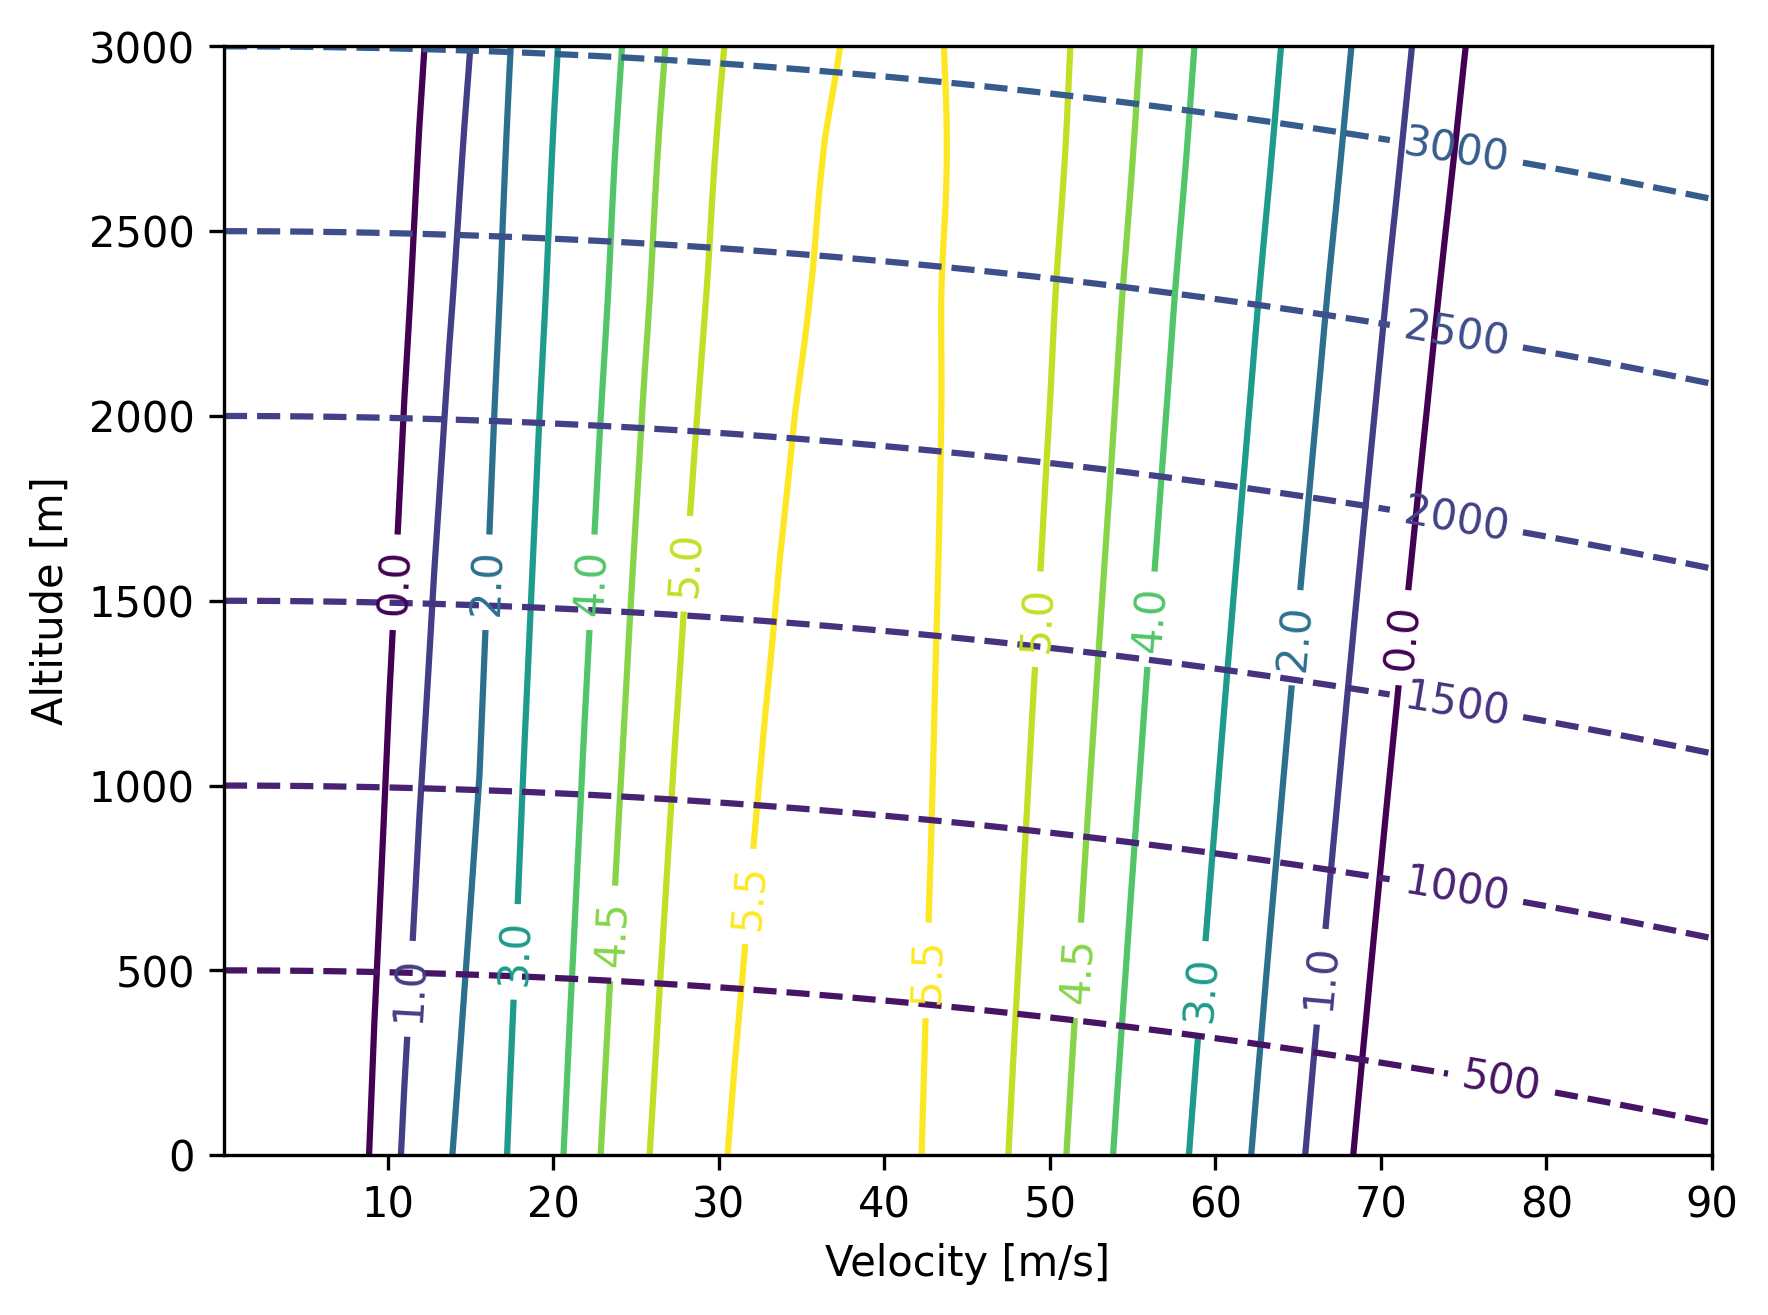
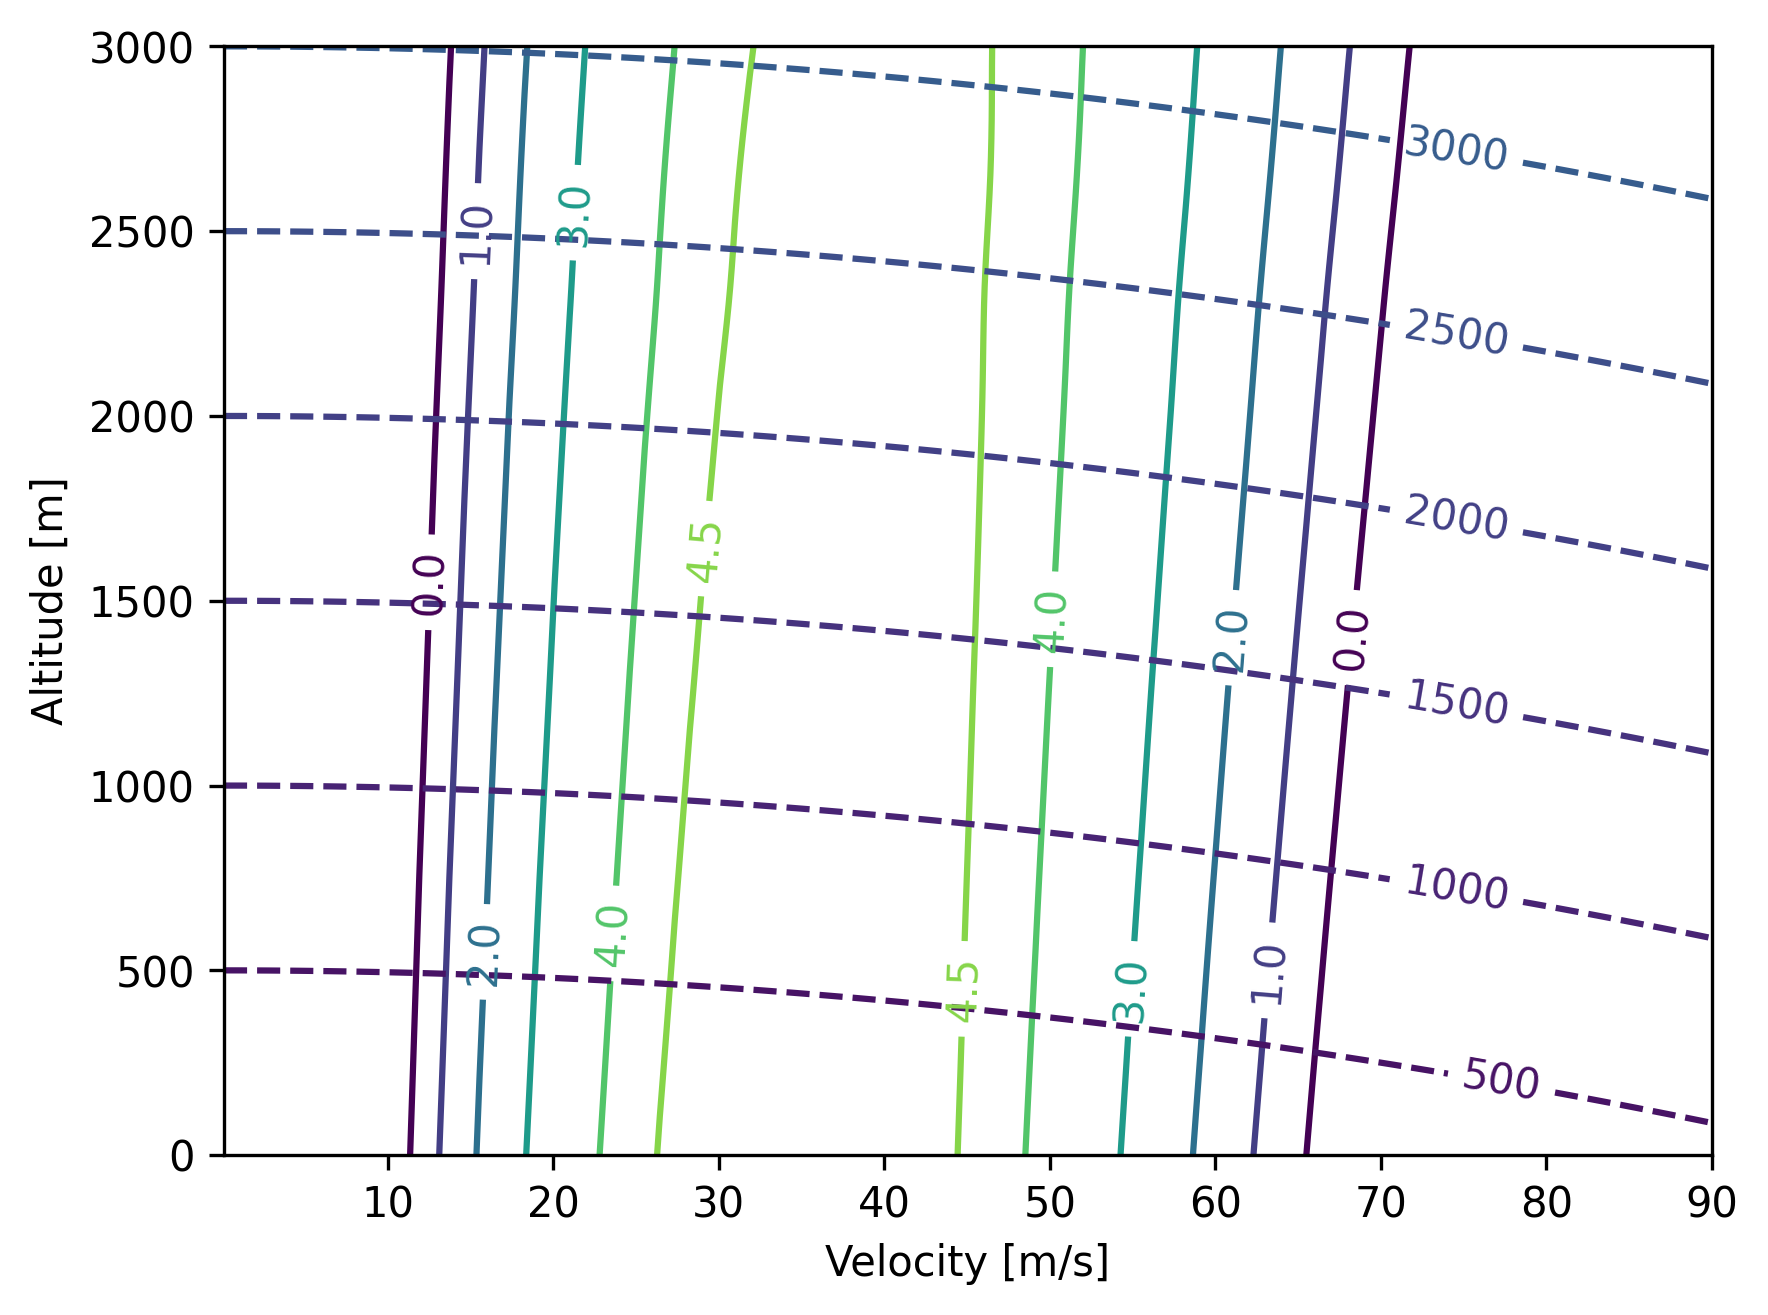
did payload range for summary

Changed region(s): [[0.4977, 0.0312, 0.8399, 0.873], [0.1867, 0.0312, 0.4666, 0.873], [0.4666, 0.0624, 0.4977, 0.0935]]

diff --git a/performance_diagrams/payload_range_final_design.py b/performance_diagrams/payload_range_final_design.py
@@ -1,7 +1,12 @@
+import sys
+import os
+
+# Fix path FIRST, before any local imports
+sys.path.insert(0, os.path.join(os.path.dirname(__file__), '..'))
 import math
 import numpy as np
 import matplotlib.pyplot as plt
-import os
+# import os
 from pathlib import Path
 from lookups.consts import *
 
@@ -101,29 +106,29 @@ def plot_payload_range(payload_range_points, m_pl_des, R_des,
     os.makedirs(os.path.dirname(save_path), exist_ok=True)
     plt.savefig(save_path, dpi=300, bbox_inches='tight')
     print(f"Figure saved to: {save_path}")
-
+    plt.show()
     plt.close()
 
 if __name__ == '__main__':
     # WEIGHTS
-    m_mto = 1809
-    m_e = 970
+    m_mto = 1840.3
+    m_e = 1010
     m_pl_des = 662
     m_pl_max = 750
     m_pilot = 77
-    m_f_des = m_mto - m_e - m_pl_des
-    m_f_max = 250
+    m_f_des = 168
+    m_f_max = 250  
 
     # AERODYNAMICS
-    A = 10.2
-    e = 0.752
-    C_d0 = 0.0346
-    L_D_cr = 12.12
+    A = 9
+    e = 0.783
+    C_d0 = 0.02591
+    L_D_cr = 14.62
 
     # PROPULSION
-    eta_p = 0.8
+    eta_p = 0.76
     eta_eng = 0.25
-    e_f = 43000000
+    e_f = 44400000
 
     # DESIGN CHOICES
     R_des = 500 * 1000

diff --git a/performance_diagrams/energy_heigt.py b/performance_diagrams/energy_heigt.py
@@ -29,13 +29,13 @@ def h_v_plot(alts, mtow,cd0,S,AR,e,c_l_max, D_ft, P_bhp):
         rho = Atmosphere(alt, 0).density[0]
         # V_array= np.linspace(1.3 * stall_speed(mtow, c_l_max, rho, S), 90, 100)
         V_array= np.linspace(0.1, 90, 100)
-        T_static, P_available_curve, V_prop = curve(D_ft, rho, P_bhp)
+        V_ms, P_available_curve= curve(D_ft, rho, P_bhp)
 
         for j, V in enumerate(V_array):
             Cl = mtow / (0.5 * rho * V**2 * S)
             Cd = cd0 + Cl**2/(np.pi*AR*e)
             P_r = 0.5 * rho * V**3 * S * Cd
-            P_a = np.interp(V, V_prop, P_available_curve)
+            P_a = np.interp(V, V_ms, P_available_curve)
 
             P_a = P_a
             ROC[i,j] = (P_a-P_r)/mtow
